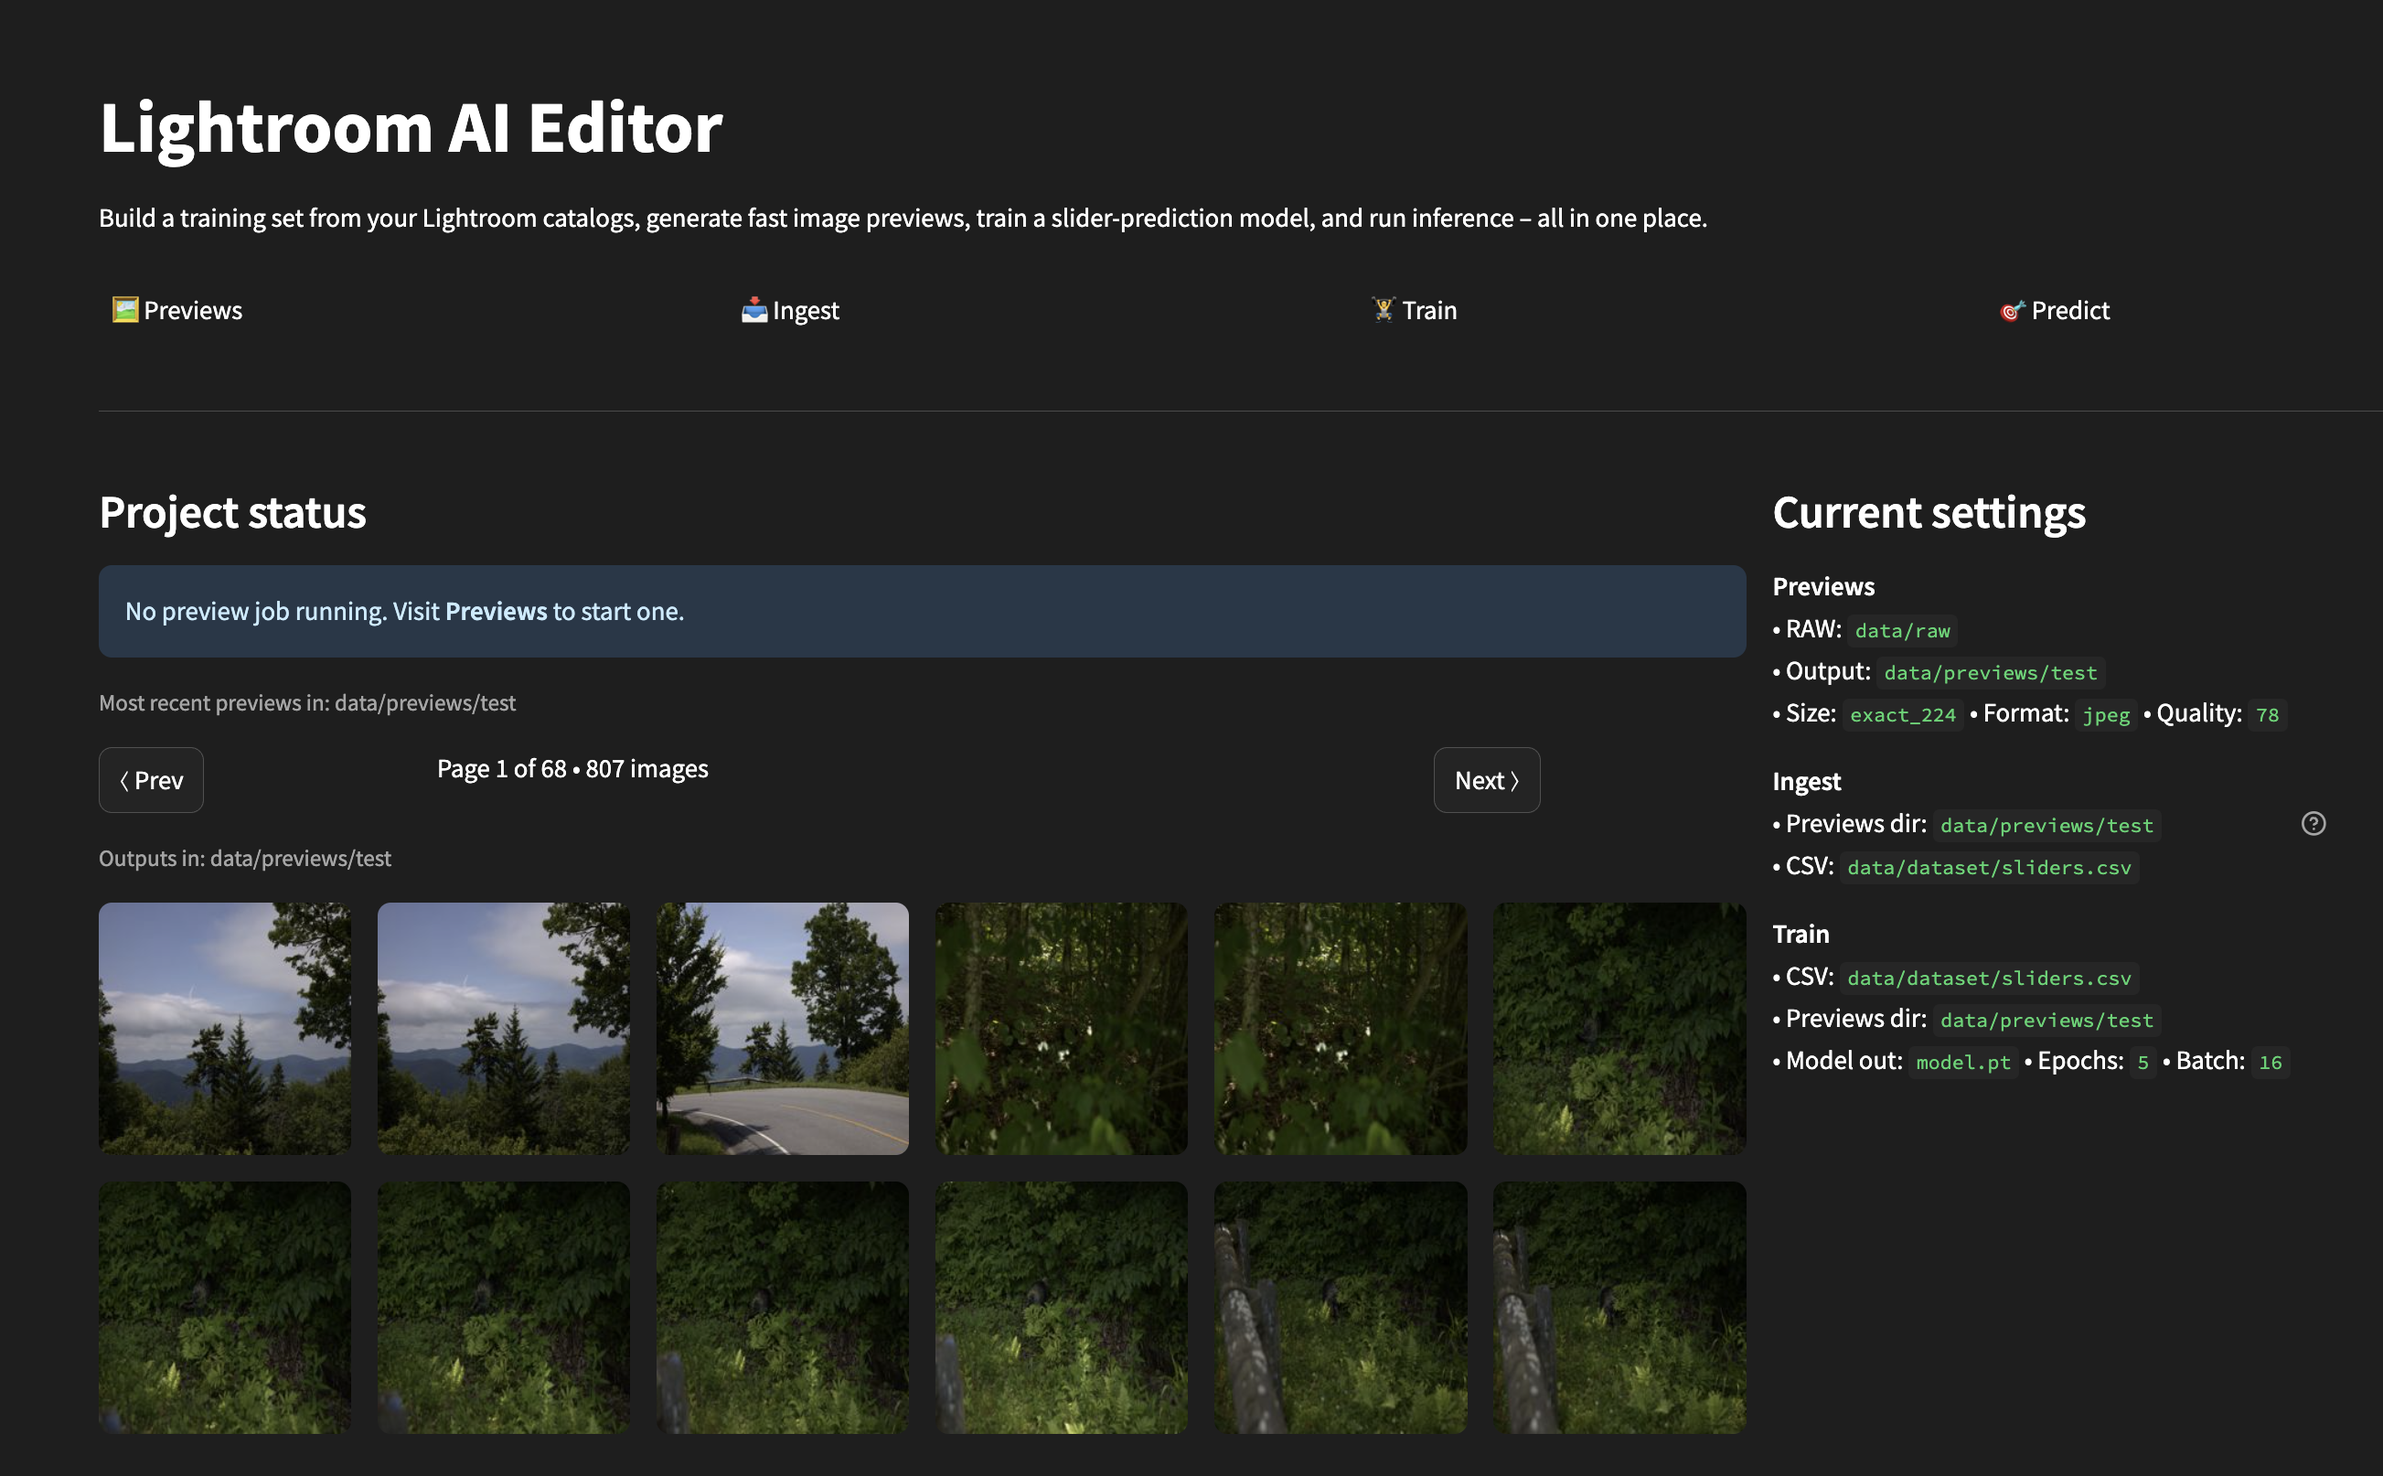
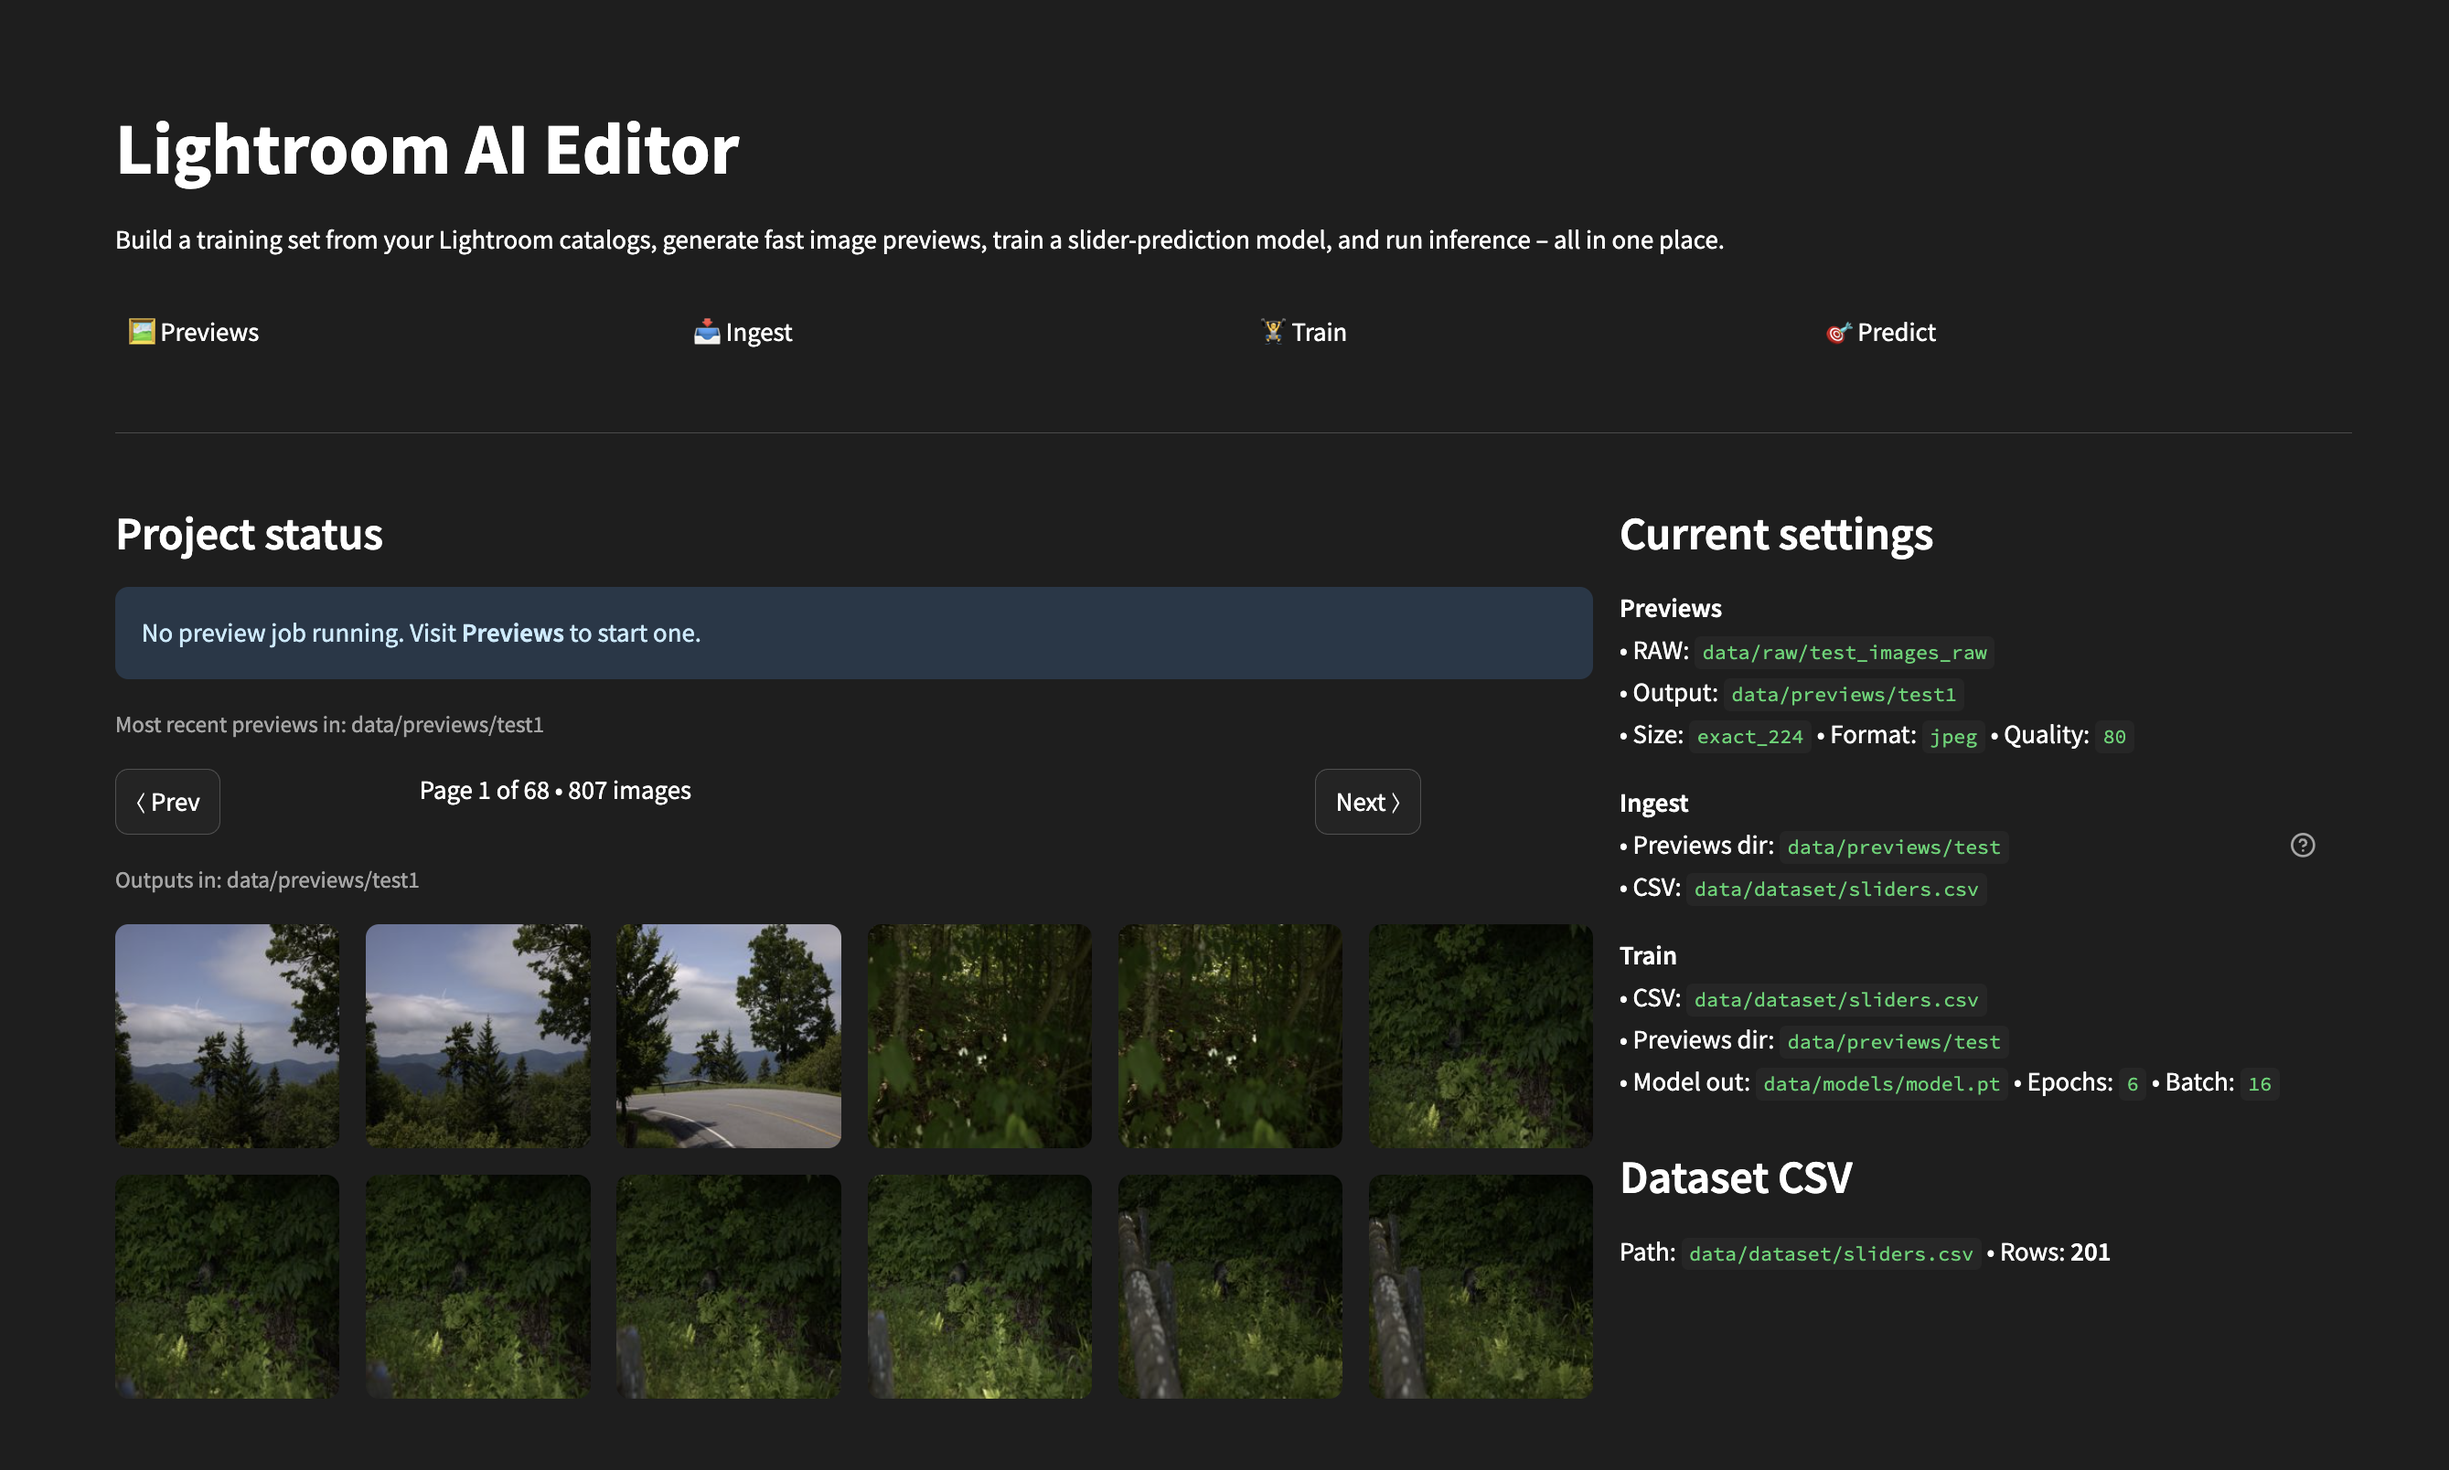
update readme and screenshots

diff --git a/README.md b/README.md
@@ -1,6 +1,6 @@
 # Lightroom AI Editor
 
-Teach a pre‑trained AI model to edit photos like you - locally, in your browser.  
+Teach a pre‑trained AI model to edit photos like you — locally, in your browser.  
 Generate training datasets from RAW files, ingest Lightroom catalogs, train a model on your style, and predict Lightroom develop settings/XMP for new images.
 
 ![example_screen_home.png](./docs/example_screen_home.png)
@@ -27,12 +27,13 @@ Generate training datasets from RAW files, ingest Lightroom catalogs, train a mo
 ## Features
 
 - **Multipage Streamlit app** (Home, Previews, Ingest, Train, Predict)
-- **Preview generator**: Convert RAWs (CR3/CR2/DNG/NEF/ARW/RAF/RW2/ORF/SRW) to fast, model‑ready previews (JPEG/WebP). Background job with live progress and reclaim on refresh.
-- **Catalog ingest**: Drag‑and‑drop Lighroom `.lrcat` files to extract EXIF/XMP and internal develop settings into a clean CSV.
-- **Slider selection**: Train on only the sliders you care about (group and fine‑tune selectors).
-- **Training**: Image → slider regression (PyTorch). Saves model and logs training loss.
+- **Preview generator**: Convert RAWs (CR3/CR2/DNG/NEF/ARW/RAF/RW2/ORF/SRW) to fast, model‑ready previews (JPEG/WebP). Background job with live progress, reclaim on refresh, paginated thumbnail grid.
+- **Limit by CSV**: On Previews, optionally **generate only files referenced in a dataset CSV** (matches by filename stem, e.g., `IMG_0001.*`).
+- **Catalog ingest**: Drag‑and‑drop Lightroom `.lrcat` files to extract EXIF/XMP and internal develop settings into a clean CSV.
+- **Training‑set controls**: Train on only the sliders you care about (group + fine‑tune selectors) with a live table preview.
+- **Training**: Image → slider regression (PyTorch). Robust preview resolution (case‑insensitive, recursive, stem‑aware) and automatic skipping of missing files. Labeled loss chart + run metrics.
 - **Prediction (WIP)**: Upload images to get predicted slider values with the trained model.
-- **State that survives refresh**: App settings are saved to `.lr_ai_editor_state.json` so switching pages or refreshing won’t lose your inputs. Ingest also keeps the last results table during the session.
+- **State that survives refresh**: App settings are saved to a JSON file at the **repo root** (`.lr_ai_editor_state.json`).
 
 ---
 
@@ -56,6 +57,9 @@ Run the start script to create a virtual env, install dependencies, start the ap
 
 # Cross-platform Python launcher
 python3 run.py
+
+# Or run Streamlit directly
+streamlit run Home.py
 ```
 
 Then open your browser to the Streamlit app if it didn’t auto‑open.
@@ -66,12 +70,14 @@ Then open your browser to the Streamlit app if it didn’t auto‑open.
 
 ### Previews
 
-The **Previews** page allows you to convert RAW camera files into small RGB images for training/inference.
+Convert RAW camera files into small RGB images for training/inference.
 
-- **Input formats** CR3, CR2, DNG, NEF, ARW, RAF, RW2, ORF, SRW
+- **Input formats:** CR3, CR2, DNG, NEF, ARW, RAF, RW2, ORF, SRW
 - **Output formats:** JPEG or WebP, sRGB, 8‑bit
 - **Sizing:** `exact_224` (fast) or `short256_center224` (less distortion). You can also keep original size.
-- **Status:** background job with live progress, survives page switches, and is reclaimed after a browser refresh.
+- **CSV filter:** Optional **Limit to images listed in a dataset CSV** (matches by `name` column’s **stem**; extension/subfolders are ignored).
+- **Status:** Background job with live progress that survives page switches and is reclaimed after browser refresh.
+- **Gallery:** Paginated thumbnails from the output folder; auto‑refresh during active jobs.
 
 ![example_screen_previews](./docs/example_screen_previews.png)
 
@@ -80,7 +86,7 @@ The **Previews** page allows you to convert RAW camera files into small RGB imag
 Drag and drop one or more Lightroom `.lrcat` catalogs. Click **Run Ingest** to extract metadata and parse develop settings into a CSV suitable for training.
 
 - Filters: flagged, date range, color label (local filter for “edited”).  
-- Keeps the **last opened results table** in memory so switching pages doesn’t lose it.
+- Always shows the **current dataset CSV** located at your configured **Output CSV path** (path + row count + preview table).
 
 ![example_screen_ingest](./docs/example_screen_ingest.png)
 
@@ -89,7 +95,9 @@ Drag and drop one or more Lightroom `.lrcat` catalogs. Click **Run Ingest** to e
 Train a model using your CSV and previews. Choose which sliders to include via **group** and **fine‑tune** selectors. A preview table shows only the filename + selected sliders so you can verify what will be used.
 
 - **Only `exposure`** is treated as a floating‑point value (display as `0.00`). All other sliders are integer‑valued.
-- The model outputs one value per selected slider in the exact order shown.
+- **Data sanity:** Training uses an existence‑aware dataset that resolves previews **recursively** and **case‑insensitively** by **stem** (e.g., `IMG_0001.CR3` → `IMG_0001.jpg`) and **skips missing previews**.
+- **Training data summary:** Clear metrics (Rows in CSV, Previews, Usable) and a thumbnail grid of usable previews.
+- **Run metrics:** Duration, epochs, samples used, final loss with delta, and an approximate throughput (images/sec). Labeled loss chart (Epoch vs Training Loss).
 
 ![example_screen_train](./docs/example_screen_train.png)
 
@@ -131,7 +139,7 @@ python -m modules.train \
   --sliders "temperature,tint,exposure,contrast,whites,highlights,shadows,blacks"
 ```
 
-> Tip: `--sliders` is a comma‑separated list of **friendly names** (see below).  
+> Tip: `--sliders` is a comma‑separated list of **friendly names** (see [`modules/sliders.py`](./modules/sliders.py)).  
 > The order given is the output order the model learns.
 
 ---
@@ -139,8 +147,8 @@ python -m modules.train \
 ## Troubleshooting
 
 **rawpy (LibRaw) install**
-- On macOS with Homebrew: `brew install libraw` (then `pip install rawpy`)
-- On Linux: ensure `libraw`/image codecs are present via your package manager
+- macOS (Homebrew): `brew install libraw` (then `pip install rawpy`)
+- Linux: ensure `libraw`/image codecs are present via your package manager
 - Windows: use prebuilt wheels if available; otherwise install Visual C++ Build Tools
 
 **Exempi / Python XMP Toolkit**
@@ -148,26 +156,27 @@ python -m modules.train \
 - Linux: `apt install exempi` (or your distro equivalent)
 - Windows: see the XMP Toolkit docs for packaged libs or build steps
 
-**Streamlit multipage quirks**
-- Page titles come from filenames. We use numeric prefixes (`1_`, `2_`, …) to control order.
-- Only the first page can set `st.set_page_config(...)` (we do this in `Home.py`).
+**Streamlit runtime warnings**
+- If you see messages like _“missing ScriptRunContext / Session state does not function / No runtime found”_, they typically come from **PyTorch DataLoader workers** (separate processes).  
+  **Fix:** set `num_workers=0` (and `persistent_workers=False`) in training.
+- Launch the app with `streamlit run Home.py` (not `python Home.py`).
 
-**Previews job visibility**
-- The background job is tracked in‑process and **reclaimed after browser refresh**.
-- If you restart the server, the job registry resets (by design). You’ll still see completed previews in the gallery.
+**Persistent settings file**
+- Settings are saved at the repo root: `.lr_ai_editor_state.json`.  
+  Add to `.gitignore` if you don’t want to commit it.
 
 ---
 
 ## Notes on Lightroom catalogs
 
-This project uses [Lightroom‑SQL‑tools](https://github.com/fdenivac/Lightroom-SQL-tools) to read `.lrcat` files (they're essentially just SQLite databases). From exploration, the tables relevant to photo editing are:
+This project uses [Lightroom‑SQL‑tools](https://github.com/fdenivac/Lightroom-SQL-tools) to read `.lrcat` files (they're SQLite databases). From exploration, the tables relevant to photo editing are:
 
 1. **Adobe_AdditionalMetadata**  
    `xmp` (TEXT) – full XMP sidecar XML per image. Currently, not much is done with this, and support for parsing it may be removed to allow us to drop the dependency on Exempi.
 2. **Adobe_imageDevelopSettings**  
-   Numeric flags and a Lua‑like text column mirroring Camera Raw Settings that often **isn’t** in XMP depending on Lightroom settings. We currently retrieve/parse this text column directly, since Lightroom‑SQL‑tools doesn’t expose everything yet and Lua objects aren't natively supported in python. This is where the majority of internal Lightroom slier data is hidden.
+   Numeric flags and a Lua‑like text column mirroring Camera Raw Settings that often **isn’t** in XMP depending on Lightroom settings. We retrieve/parse this text column directly since Lightroom‑SQL‑tools doesn’t expose everything yet and Lua objects aren't natively supported in Python. This is where the majority of internal Lightroom **slider** data is hidden.
 3. **AgHarvestedExifMetadata**  
-   Aperture, shutter, ISO, camera model, date parts, etc...
+   Aperture, shutter, ISO, camera model, date parts, etc.
 
 See:
   - [current list of trainable sliders](./modules/sliders.py)
@@ -185,9 +194,12 @@ Run `pytest` to execute tests under [`tests/`](./tests/).
 
 ## Roadmap
 
+- Debounce persisted state changes
+- Show epoch progression in UI
+- Graceful shutdown from CLI
 - Validation split + early stopping during training
 - Per‑slider normalization & image normalization/augmentation
 - Model metadata (slider order, normalization stats) saved alongside the `.pt`
-- Export predicted sliders
+- Export predicted sliders / XMP sidecars
 - GPU selection & mixed precision
 - Persist preview job metadata to disk (optional) to reclaim after server restarts
